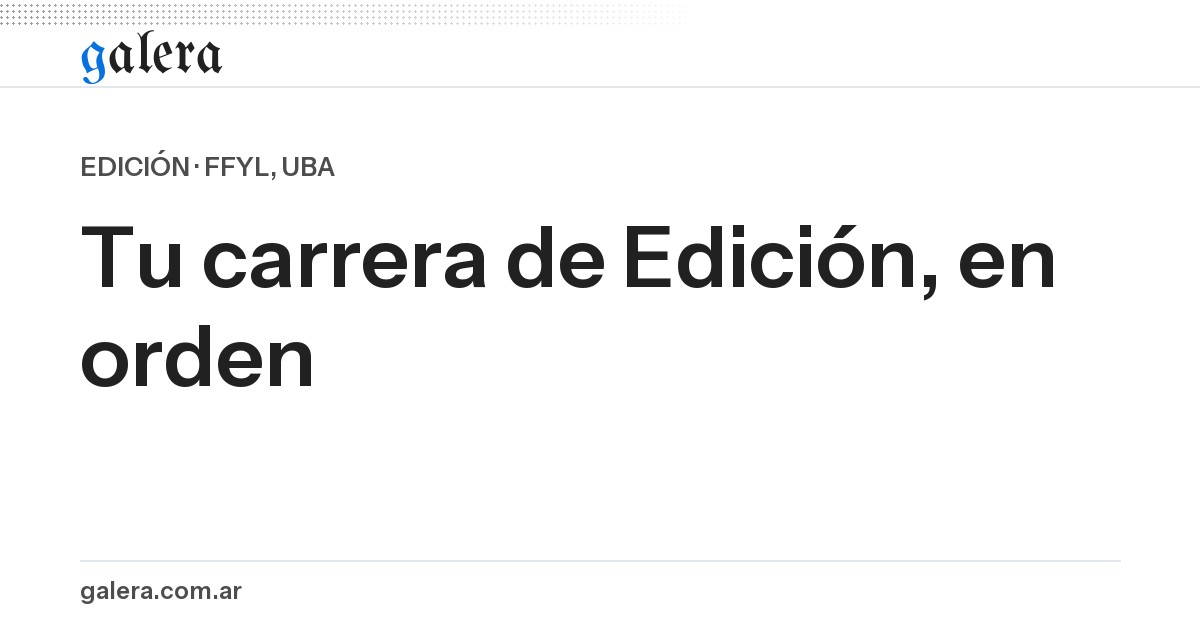
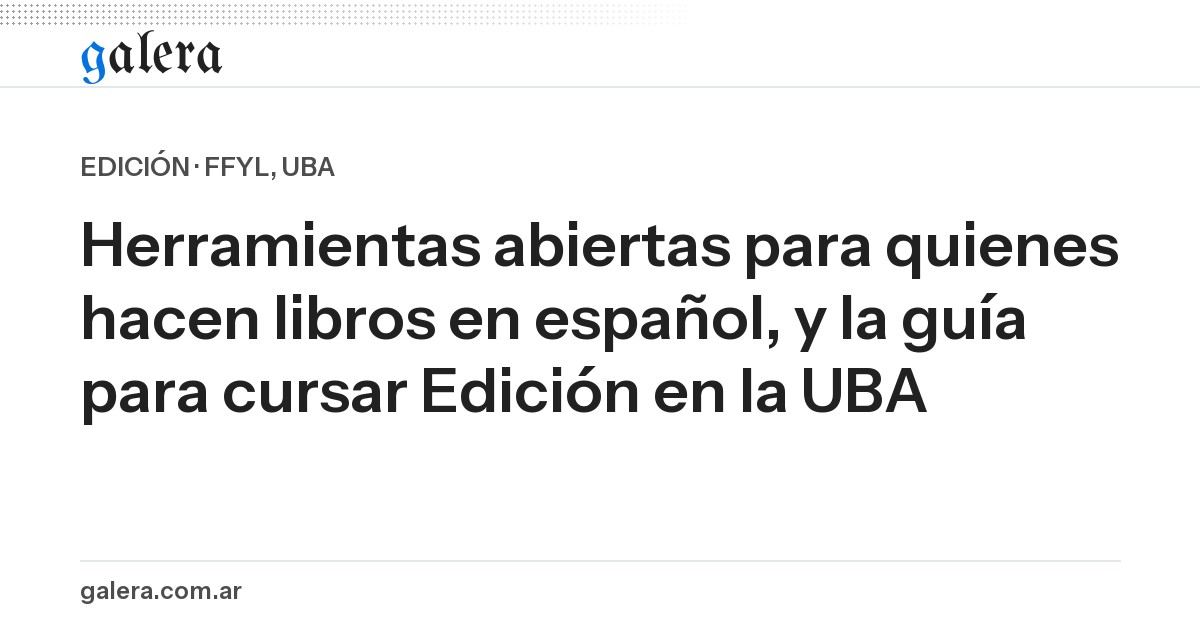
v166: og:image de Galera con la línea D1, sin «tu carrera de Edición, en orden»

Changed region(s): [[0.0617, 0.3317, 0.9558, 0.6635]]

diff --git a/tools/prerender.js b/tools/prerender.js
@@ -16,7 +16,7 @@ class El {
 }
 const porId = {};
 const elemento = id => porId[id] = porId[id] || new El(id);
-const documento = { title: 'Galera: tu carrera de Edición, en orden (UBA)', documentElement: new El('html'), body: new El('body'), head: new El('head'), activeElement: null, referrer: '', cookie: '',
+const documento = { title: 'Galera: herramientas abiertas para quienes hacen libros', documentElement: new El('html'), body: new El('body'), head: new El('head'), activeElement: null, referrer: '', cookie: '',
   querySelector: s => { const m = /^#([\w-]+)$/.exec(s); return m ? elemento(m[1]) : null; }, querySelectorAll: () => [], getElementById: elemento, createElement: () => new El(''), addEventListener() {}, removeEventListener() {} };
 const ubic = { pathname: '/', search: '', hash: '', origin: 'https://galera.com.ar', host: 'galera.com.ar', hostname: 'galera.com.ar', protocol: 'https:', get href() { return this.origin + this.pathname + this.search + this.hash; }, reload() {}, replace() {}, assign() {} };
 const pon = u => { const x = new URL(u, ubic.origin); ubic.pathname = x.pathname; ubic.search = x.search; ubic.hash = x.hash; };

diff --git a/horarios/index.html b/horarios/index.html
@@ -18,7 +18,7 @@
 <meta property="og:image:type" content="image/jpeg">
 <meta property="og:image:width" content="1200">
 <meta property="og:image:height" content="630">
-<meta property="og:image:alt" content="Galera: tu carrera de Edición, en orden. Notas, horarios, resúmenes y simuladores.">
+<meta property="og:image:alt" content="Galera: herramientas abiertas para quienes hacen libros en español, y la guía para cursar Edición en la UBA.">
 <meta name="twitter:card" content="summary_large_image">
 <script type="application/ld+json">{"@context": "https://schema.org", "@type": "WebPage", "name": "Horarios de Edición (UBA) sin superposiciones · Galera", "description": "Armá tu cuatrimestre de Edición en la Facultad de Filosofía y Letras (UBA) con la oferta de comisiones: Galera avisa si dos materias se pisan. Gratis, sin cuenta.", "url": "https://galera.com.ar/horarios/", "inLanguage": "es-AR", "isPartOf": {"@type": "WebSite", "name": "Galera", "url": "https://galera.com.ar/"}}</script>
 <!--marco:recursos-->

diff --git a/carrera/index.html b/carrera/index.html
@@ -18,7 +18,7 @@
 <meta property="og:image:type" content="image/jpeg">
 <meta property="og:image:width" content="1200">
 <meta property="og:image:height" content="630">
-<meta property="og:image:alt" content="Galera: tu carrera de Edición, en orden. Notas, horarios, resúmenes y simuladores.">
+<meta property="og:image:alt" content="Galera: herramientas abiertas para quienes hacen libros en español, y la guía para cursar Edición en la UBA.">
 <meta name="twitter:card" content="summary_large_image">
 <script type="application/ld+json">{"@context": "https://schema.org", "@type": "WebPage", "name": "Mi carrera: notas, promedio y plan de Edición (UBA) · Galera", "description": "Cargá tus materias y notas de Edición en la Facultad de Filosofía y Letras (UBA): promedio con y sin CBC, lo que falta y lo que podés cursar. Gratis.", "url": "https://galera.com.ar/carrera/", "inLanguage": "es-AR", "isPartOf": {"@type": "WebSite", "name": "Galera", "url": "https://galera.com.ar/"}}</script>
 <!--marco:recursos-->

diff --git a/links/index.html b/links/index.html
@@ -18,7 +18,7 @@
 <meta property="og:image:type" content="image/jpeg">
 <meta property="og:image:width" content="1200">
 <meta property="og:image:height" content="630">
-<meta property="og:image:alt" content="Galera: tu carrera de Edición, en orden. Notas, horarios, resúmenes y simuladores.">
+<meta property="og:image:alt" content="Galera: herramientas abiertas para quienes hacen libros en español, y la guía para cursar Edición en la UBA.">
 <meta name="twitter:card" content="summary_large_image">
 <script type="application/ld+json">{"@context": "https://schema.org", "@type": "WebPage", "name": "Links útiles para estudiar Edición (UBA) · Galera", "description": "Los sitios oficiales que más se usan en la carrera de Edición (FFyL, UBA) y del sector del libro: inscripción, trámites, bibliotecas y asociaciones.", "url": "https://galera.com.ar/links/", "inLanguage": "es-AR", "isPartOf": {"@type": "WebSite", "name": "Galera", "url": "https://galera.com.ar/"}}</script>
 <!--marco:recursos-->

diff --git a/calendario/index.html b/calendario/index.html
@@ -18,7 +18,7 @@
 <meta property="og:image:type" content="image/jpeg">
 <meta property="og:image:width" content="1200">
 <meta property="og:image:height" content="630">
-<meta property="og:image:alt" content="Galera: tu carrera de Edición, en orden. Notas, horarios, resúmenes y simuladores.">
+<meta property="og:image:alt" content="Galera: herramientas abiertas para quienes hacen libros en español, y la guía para cursar Edición en la UBA.">
 <meta name="twitter:card" content="summary_large_image">
 <script type="application/ld+json">{"@context": "https://schema.org", "@type": "WebPage", "name": "Calendario académico de Edición (UBA) · Galera", "description": "Fechas de la Facultad de Filosofía y Letras (UBA): inscripciones, cursada, mesas de examen y feriados, por mes o en lista. Gratis, sin cuenta.", "url": "https://galera.com.ar/calendario/", "inLanguage": "es-AR", "isPartOf": {"@type": "WebSite", "name": "Galera", "url": "https://galera.com.ar/"}}</script>
 <!--marco:recursos-->

diff --git a/novedades/index.html b/novedades/index.html
@@ -18,7 +18,7 @@
 <meta property="og:image:type" content="image/jpeg">
 <meta property="og:image:width" content="1200">
 <meta property="og:image:height" content="630">
-<meta property="og:image:alt" content="Galera: tu carrera de Edición, en orden. Notas, horarios, resúmenes y simuladores.">
+<meta property="og:image:alt" content="Galera: herramientas abiertas para quienes hacen libros en español, y la guía para cursar Edición en la UBA.">
 <meta name="twitter:card" content="summary_large_image">
 <script type="application/ld+json">{"@context": "https://schema.org", "@type": "WebPage", "name": "Novedades de Galera", "description": "Lo último que se publicó en Galera, el gestor para la carrera de Edición (FFyL, UBA), y lo que pidieron quienes lo usan.", "url": "https://galera.com.ar/novedades/", "inLanguage": "es-AR", "isPartOf": {"@type": "WebSite", "name": "Galera", "url": "https://galera.com.ar/"}}</script>
 <!--marco:recursos-->

diff --git a/config/index.html b/config/index.html
@@ -18,7 +18,7 @@
 <meta property="og:image:type" content="image/jpeg">
 <meta property="og:image:width" content="1200">
 <meta property="og:image:height" content="630">
-<meta property="og:image:alt" content="Galera: tu carrera de Edición, en orden. Notas, horarios, resúmenes y simuladores.">
+<meta property="og:image:alt" content="Galera: herramientas abiertas para quienes hacen libros en español, y la guía para cursar Edición en la UBA.">
 <meta name="twitter:card" content="summary_large_image">
 <script type="application/ld+json">{"@context": "https://schema.org", "@type": "WebPage", "name": "Configuración · Galera", "description": "Perfil, apariencia, avisos y copia de tus datos en Galera. Todo queda en este navegador: sin cuentas ni servidores.", "url": "https://galera.com.ar/config/", "inLanguage": "es-AR", "isPartOf": {"@type": "WebSite", "name": "Galera", "url": "https://galera.com.ar/"}}</script>
 <!--marco:recursos-->

diff --git a/prueba/index.html b/prueba/index.html
@@ -19,7 +19,7 @@
 <meta property="og:image:type" content="image/jpeg">
 <meta property="og:image:width" content="1200">
 <meta property="og:image:height" content="630">
-<meta property="og:image:alt" content="Galera: tu carrera de Edición, en orden. Notas, horarios, resúmenes y simuladores.">
+<meta property="og:image:alt" content="Galera: herramientas abiertas para quienes hacen libros en español, y la guía para cursar Edición en la UBA.">
 <meta name="twitter:card" content="summary_large_image">
 <link rel="icon" href="/img/icono-192.png">
 <link rel="stylesheet" href="prueba.css">

diff --git a/prueba/componentes/index.html b/prueba/componentes/index.html
@@ -17,7 +17,7 @@
 <meta property="og:image:type" content="image/jpeg">
 <meta property="og:image:width" content="1200">
 <meta property="og:image:height" content="630">
-<meta property="og:image:alt" content="Galera: tu carrera de Edición, en orden. Notas, horarios, resúmenes y simuladores.">
+<meta property="og:image:alt" content="Galera: herramientas abiertas para quienes hacen libros en español, y la guía para cursar Edición en la UBA.">
 <meta name="twitter:card" content="summary_large_image">
 <link rel="stylesheet" href="../../componentes.css?v=1">
 </head>
